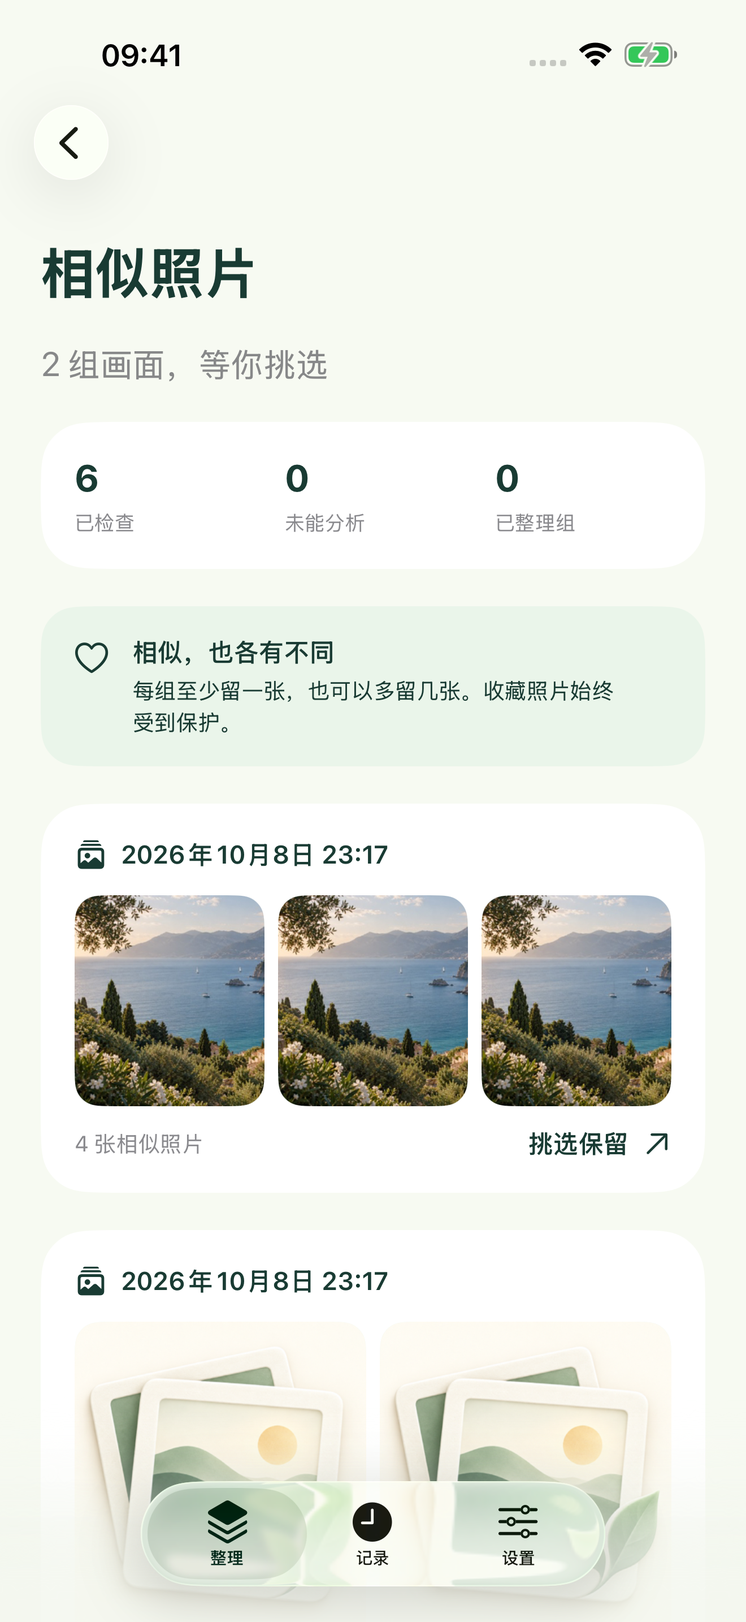
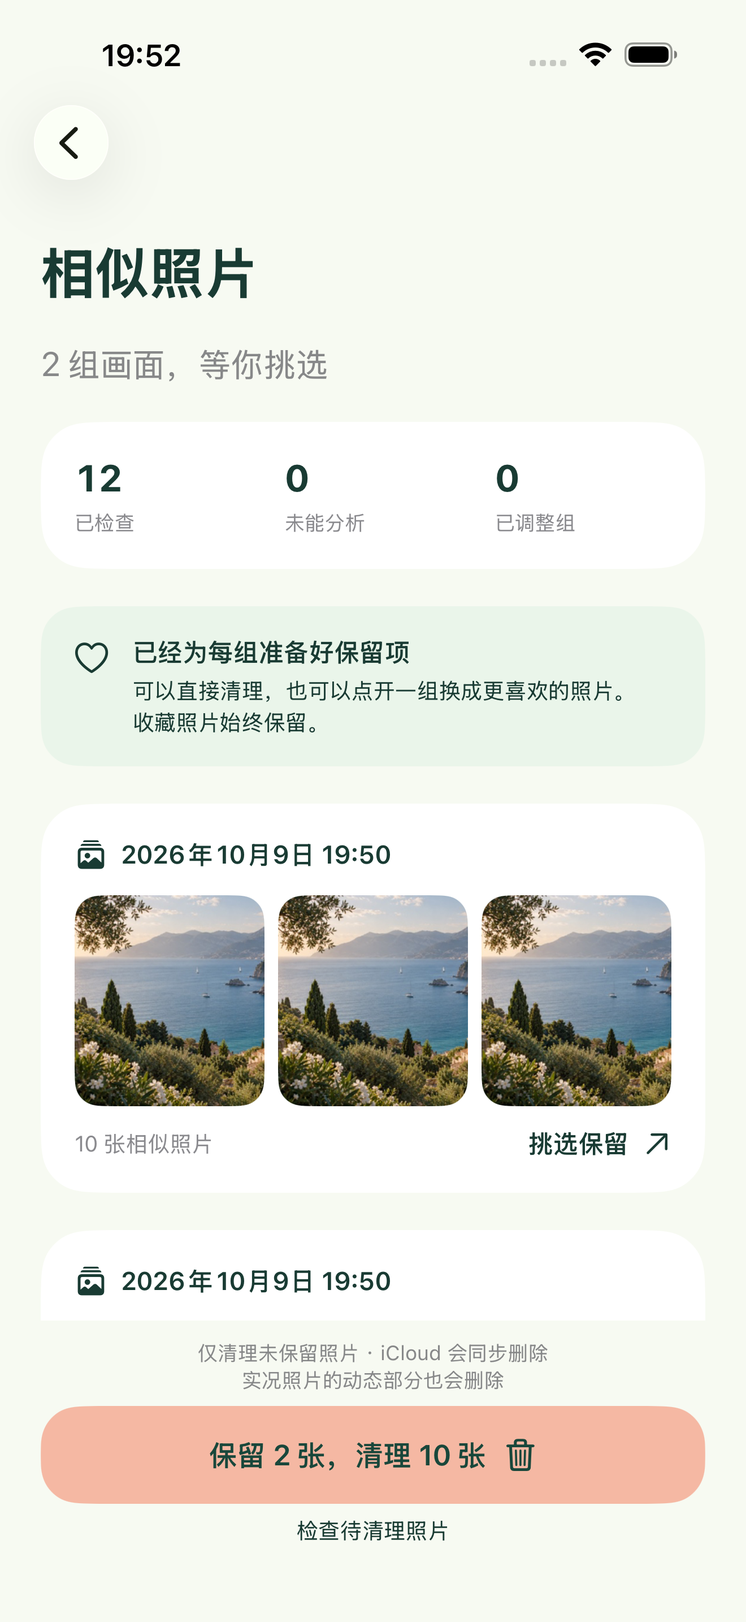
更新连拍分组与直接清理说明和截图

diff --git a/index.html b/index.html
@@ -1,1 +1,1 @@
-<!doctype html><html lang="zh-CN"><head><meta charset="utf-8"><meta name="viewport" content="width=device-width, initial-scale=1"><title>留白相册 PhotoKeep · 留下喜欢的，给回忆一点留白</title><meta name="description" content="选择一段时光，在 iPhone 本机找到相似照片，挑选喜欢的，再确认删除。留白相册 PhotoKeep，无需账号，首版免费无广告。"><meta name="theme-color" content="#f7f8f3"><link rel="icon" href="assets/icon.png"><link rel="stylesheet" href="styles.css"></head><body><a class="skip" href="#main">跳到正文</a><div class="wrap"><header><a class="brand" href="./"><img src="assets/icon.png" alt="">留白相册<span>PhotoKeep</span></a><nav aria-label="主导航"><a href="#how">怎么整理</a><a href="privacy.html">隐私</a><a href="support.html">帮助</a></nav></header><main id="main"><section class="hero"><div><p class="eyebrow">A LITTLE SPACE FOR YOUR MEMORIES</p><h1>留下喜欢的。<br><em>给回忆一点留白。</em></h1><p class="intro">旅行拍了好多张，喜欢的其实就那几张。选一段时光，把相似画面放在一起，慢慢挑出值得留下的。</p><a class="button" href="#how">看看如何整理 <span aria-hidden="true">↗</span></a><p class="fine">适用于 iPhone · iOS 17 及以上<br>首版准备上线 · 免费，无广告、无内购</p></div><div class="hero-art"><div class="device"><img src="assets/home.png" width="1320" height="2868" alt="留白相册实际界面：选择近七天、本月或自定义日期，开始整理"></div><div class="stamp">✓ 本机识别 &nbsp; · &nbsp; 去留由你</div></div></section><section id="how" class="section"><div class="section-head"><p class="eyebrow">MAKE ROOM, KEEP THE MOMENT</p><h2>一次，只整理一段回忆。</h2><p>从上周的散步，到刚结束的旅行。把大相册拆成小任务，让每次取舍都轻一点。</p></div><div class="steps"><article class="step"><span class="num">01</span><h3>选一段时光</h3><p>近 7 天、本月，或自己选择起止日期。按拍摄日期查找，每次最多分析 5,000 张照片。</p></article><article class="step"><span class="num">02</span><h3>把喜欢的留下</h3><p>相近时间拍摄的相似画面自动分组。放大看细节，可以保留多张；收藏照片始终受到保护。</p></article><article class="step"><span class="num">03</span><h3>再看一眼，再删除</h3><p>先检查待删除清单，再向系统确认。误删后通常可在系统「最近删除」中，于 30 天内恢复。</p></article></div></section><section class="section"><div class="photo-banner"><img src="assets/coast.png" width="1536" height="1024" loading="lazy" alt="阳光下的海湾与山间小镇，AI 辅助创作的示意照片"><div class="copy"><p class="eyebrow">YOURS, AND ONLY YOURS</p><h2>照片里的生活，<br>留在你的设备上。</h2><p>无需账号，也无需把相册交给开发者。相似识别在 iPhone 本机完成，你授权多少照片，留白就只分析多少。</p><a href="privacy.html">了解隐私保护 →</a></div></div></section><section class="section"><div class="section-head"><p class="eyebrow">A CLOSER LOOK</p><h2>每一步，都看得清楚。</h2><p>以下为 App 实际运行界面；相册中的照片使用专门准备的示例素材。</p></div><div class="screens"><article class="screen"><img src="assets/groups.png" width="1320" height="2868" loading="lazy" alt="相似照片分组结果"><p><strong>相似画面放在一起</strong>清楚了解已检查和未能分析的照片。</p></article><article class="screen"><img src="assets/keepers.png" width="1320" height="2868" loading="lazy" alt="选择保留照片的界面"><p><strong>保留多少，你说了算</strong>推荐不是决定，喜欢就多留几张。</p></article><article class="screen"><img src="assets/review.png" width="1320" height="2868" loading="lazy" alt="删除前确认清单"><p><strong>删除之前再确认</strong>任何一张都能从清单中移除。</p></article></div></section><section class="section"><div class="section-head"><h2>你可能还想知道。</h2></div><details><summary>和系统「重复项目」有什么不同？</summary><p>留白提供主动选择日期、相似画面分组、多张保留和删除前复核流程。它辅助你做选择，不保证识别全部重复或相似照片，也不替代系统的重复项目合并。</p></details><details><summary>会自动删除，或者清空最近删除吗？</summary><p>不会。只有你确认后才会请求系统删除，也不会自动永久清空「最近删除」。若开启 iCloud 照片，删除会同步影响同一图库的其他设备。</p></details><details><summary>为什么有些照片没被找到？</summary><p>可能没有授权、尚未下载到本机，或不符合相似条件。首版比较拍摄时间相隔不超过 10 分钟的照片；较长时间间隔的重复照片可能不会归组。照片过多或过于密集时，需要缩小日期范围。</p></details><details><summary>需要网络吗？</summary><p>本地照片的识别不需要网络。默认不请求下载云端图像；在设置中开启 iCloud 下载后，Apple 照片服务会按需联网下载，可能产生流量及临时存储。照片不会上传至开发者服务器。</p></details><details><summary>删除后，为什么空间没有立刻增加？</summary><p>照片通常会先在系统「最近删除」保留 30 天。设备和 iCloud 空间由系统管理，不一定立即变化。留白记录成功删除张数，不把原文件大小当成立即释放的手机空间。</p></details></section><section class="cta"><img src="assets/icon.png" alt="留白相册图标"><h2>少一点重复。<br>多一点喜欢。</h2><p class="fine">首版准备上线。需要帮助，随时联系我们。</p><a class="button secondary" href="support.html">使用帮助与支持 ↗</a></section></main><footer><span>© 2026 Peng Lin · 留白相册 PhotoKeep</span><div><a href="privacy.html">隐私政策</a><a href="support.html">技术支持</a><a href="mailto:540933120@qq.com">联系我们</a></div></footer></div></body></html>
+<!doctype html><html lang="zh-CN"><head><meta charset="utf-8"><meta name="viewport" content="width=device-width, initial-scale=1"><title>留白相册 PhotoKeep · 留下喜欢的，给回忆一点留白</title><meta name="description" content="选择一段时光，在 iPhone 本机找到相似照片，挑选喜欢的，再确认删除。留白相册 PhotoKeep，无需账号，首版免费无广告。"><meta name="theme-color" content="#f7f8f3"><link rel="icon" href="assets/icon.png"><link rel="stylesheet" href="styles.css"></head><body><a class="skip" href="#main">跳到正文</a><div class="wrap"><header><a class="brand" href="./"><img src="assets/icon.png" alt="">留白相册<span>PhotoKeep</span></a><nav aria-label="主导航"><a href="#how">怎么整理</a><a href="privacy.html">隐私</a><a href="support.html">帮助</a></nav></header><main id="main"><section class="hero"><div><p class="eyebrow">A LITTLE SPACE FOR YOUR MEMORIES</p><h1>留下喜欢的。<br><em>给回忆一点留白。</em></h1><p class="intro">旅行拍了好多张，喜欢的其实就那几张。选一段时光，把相似画面放在一起，慢慢挑出值得留下的。</p><a class="button" href="#how">看看如何整理 <span aria-hidden="true">↗</span></a><p class="fine">适用于 iPhone · iOS 17 及以上<br>首版准备上线 · 免费，无广告、无内购</p></div><div class="hero-art"><div class="device"><img src="assets/home.png" width="1320" height="2868" alt="留白相册实际界面：选择近七天、本月或自定义日期，开始整理"></div><div class="stamp">✓ 本机识别 &nbsp; · &nbsp; 去留由你</div></div></section><section id="how" class="section"><div class="section-head"><p class="eyebrow">MAKE ROOM, KEEP THE MOMENT</p><h2>一次，只整理一段回忆。</h2><p>从上周的散步，到刚结束的旅行。把大相册拆成小任务，让每次取舍都轻一点。</p></div><div class="steps"><article class="step"><span class="num">01</span><h3>选一段时光</h3><p>近 7 天、本月，或自己选择起止日期。按拍摄日期查找，每次最多分析 5,000 张照片。</p></article><article class="step"><span class="num">02</span><h3>把喜欢的留下</h3><p>在授权日期范围内完整展示系统连拍，相近时间拍摄的相似画面自动分组。放大看细节，可以保留多张；收藏照片始终受到保护。</p></article><article class="step"><span class="num">03</span><h3>选好保留，直接清理</h3><p>默认保留每组建议照片，可换选、多留几张，或直接清理其余照片，再向系统确认。误删后通常可在系统「最近删除」中，于 30 天内恢复。</p></article></div></section><section class="section"><div class="photo-banner"><img src="assets/coast.png" width="1536" height="1024" loading="lazy" alt="阳光下的海湾与山间小镇，AI 辅助创作的示意照片"><div class="copy"><p class="eyebrow">YOURS, AND ONLY YOURS</p><h2>照片里的生活，<br>留在你的设备上。</h2><p>无需账号，也无需把相册交给开发者。相似识别在 iPhone 本机完成，你授权多少照片，留白就只分析多少。</p><a href="privacy.html">了解隐私保护 →</a></div></div></section><section class="section"><div class="section-head"><p class="eyebrow">A CLOSER LOOK</p><h2>每一步，都看得清楚。</h2><p>以下为 App 实际运行界面；相册中的照片使用专门准备的示例素材。</p></div><div class="screens"><article class="screen"><img src="assets/groups.png" width="1320" height="2868" loading="lazy" alt="相似照片分组结果"><p><strong>相似画面放在一起</strong>清楚了解已检查和未能分析的照片。</p></article><article class="screen"><img src="assets/keepers.png" width="1320" height="2868" loading="lazy" alt="选择保留照片的界面"><p><strong>保留多少，你说了算</strong>推荐不是决定，喜欢就多留几张。</p></article><article class="screen"><img src="assets/review.png" width="1320" height="2868" loading="lazy" alt="删除前确认清单"><p><strong>也可检查待清理清单</strong>需要细看时，任何一张都能从清单中移除。</p></article></div></section><section class="section"><div class="section-head"><h2>你可能还想知道。</h2></div><details><summary>和系统「重复项目」有什么不同？</summary><p>留白提供主动选择日期、相似画面分组、默认保留、多张保留和直接批量清理流程。它辅助你做选择，不保证识别全部重复或相似照片，也不替代系统的重复项目合并。</p></details><details><summary>会自动删除，或者清空最近删除吗？</summary><p>不会。只有你确认后才会请求系统删除，也不会自动永久清空「最近删除」。若开启 iCloud 照片，删除会同步影响同一图库的其他设备。</p></details><details><summary>为什么有些照片没被找到？</summary><p>可能没有授权、尚未下载到本机，或不符合相似条件。普通相似候选比较拍摄时间相隔不超过 10 分钟的照片；较长时间间隔的重复照片可能不会归组。照片过多或过于密集时，需要缩小日期范围。</p></details><details><summary>需要网络吗？</summary><p>本地照片的识别不需要网络。默认不请求下载云端图像；在设置中开启 iCloud 下载后，Apple 照片服务会按需联网下载，可能产生流量及临时存储。照片不会上传至开发者服务器。</p></details><details><summary>删除后，为什么空间没有立刻增加？</summary><p>照片通常会先在系统「最近删除」保留 30 天。设备和 iCloud 空间由系统管理，不一定立即变化。留白记录成功删除张数，不把原文件大小当成立即释放的手机空间。</p></details></section><section class="cta"><img src="assets/icon.png" alt="留白相册图标"><h2>少一点重复。<br>多一点喜欢。</h2><p class="fine">首版准备上线。需要帮助，随时联系我们。</p><a class="button secondary" href="support.html">使用帮助与支持 ↗</a></section></main><footer><span>© 2026 Peng Lin · 留白相册 PhotoKeep</span><div><a href="privacy.html">隐私政策</a><a href="support.html">技术支持</a><a href="mailto:540933120@qq.com">联系我们</a></div></footer></div></body></html>

diff --git a/privacy.html b/privacy.html
@@ -1,1 +1,1 @@
-<!doctype html><html lang="zh-CN"><head><meta charset="utf-8"><meta name="viewport" content="width=device-width, initial-scale=1"><title>隐私政策 · 留白相册 PhotoKeep</title><meta name="description" content="留白相册 1.0 隐私政策：在本机处理照片，不含广告或追踪 SDK，了解权限、缓存、iCloud 及删除机制。"><link rel="icon" href="assets/icon.png"><link rel="stylesheet" href="styles.css"></head><body><div class="wrap"><header><a class="brand" href="./"><img src="assets/icon.png" alt="">留白相册<span>PhotoKeep</span></a><nav><a href="./">首页</a><a href="support.html">帮助</a></nav></header><main class="document"><p class="eyebrow">PRIVACY, BY DESIGN</p><h1>你的照片属于你。</h1><p>隐私政策 · 生效日期：2026 年 10 月 9 日<br>适用产品：留白相册 PhotoKeep 1.0 · 开发者：Peng Lin</p><p class="callout">当前版本不要求账号，没有广告、内购、分析或追踪 SDK。照片相似识别在设备本地完成，开发者不接收你的相册内容。</p><h2>我们如何使用照片权限</h2><p>经你授权后，App 使用 Apple PhotoKit 读取授权范围内的照片、拍摄时间、像素尺寸、收藏与可删除状态，用于日期筛选、相似分组、建议保留和安全删除。使用 Apple Vision 或本机感知指纹生成视觉特征。开发者不上传、出售或接收照片、特征和相册元数据。</p><p>你可以允许所有照片或仅选择部分照片，并随时通过系统设置缩小或撤回权限。授权部分照片时，扫描结果仅代表这些照片，不代表完整相册。</p><h2>本地保存的数据</h2><p>App 在设备内保存识别特征缓存、照片本地标识、整理进度、忽略列表，以及成功删除的日期和数量。缓存和整理状态使用系统文件保护并排除系统备份。设置选项保存在 App 的本地偏好中。不会为照片建立开发者云端备份。</p><p>你可以在设置中清理识别缓存、重置忽略列表，在记录页清空整理记录。卸载 App 会移除 App 本地数据，但不会恢复已从系统相册删除的照片，也不会删除仍保留在系统相册中的照片。</p><h2>iCloud 与网络</h2><p>默认不请求下载云端图像。只有你在设置中开启允许下载后，Apple 照片服务才会按需获取分析或预览所需图像。这可能消耗网络流量及设备临时存储，适用 Apple 的服务和隐私政策。图像下载后仍在本机识别，不会发送给开发者。</p><h2>删除由你确认</h2><p>只有你检查清单并确认后，App 才向系统请求删除。若开启 iCloud 照片，删除会同步到使用同一图库的其他设备。被删除照片通常在系统「最近删除」中保留 30 天。App 不会自动永久清空最近删除；请通过系统照片 App 检查及恢复。</p><h2>网站与主动联系</h2><p>本网站托管于 GitHub Pages，无广告、追踪脚本或第三方分析服务。访问网站时，GitHub 可能出于服务运行及安全目的处理 IP 地址、浏览器信息和请求日志，请参阅 <a href="https://docs.github.com/en/site-policy/privacy-policies/github-general-privacy-statement">GitHub 隐私声明</a>。</p><p>若主动发邮件寻求支持，我们会收到你提供的邮箱及邮件内容，只用于回复、排查你报告的问题及必要的支持记录。请勿附带私人照片或其他敏感资料。如需删除主动提供的支持资料，可通过下方邮箱联系。</p><h2>未来版本</h2><p>本政策描述当前 1.0 版本。未来如增加购买、广告或其他改变数据处理方式的功能，会在相应版本更新隐私政策、商店披露，并在需要时请求相应权限或同意。当前版本没有接入 AdMob。</p><h2>联系我们</h2><p>开发者：Peng Lin<br>隐私及支持邮箱：<a href="mailto:540933120@qq.com">540933120@qq.com</a></p></main><footer><span>© 2026 Peng Lin</span><div><a href="./">产品首页</a><a href="support.html">使用帮助</a></div></footer></div></body></html>
+<!doctype html><html lang="zh-CN"><head><meta charset="utf-8"><meta name="viewport" content="width=device-width, initial-scale=1"><title>隐私政策 · 留白相册 PhotoKeep</title><meta name="description" content="留白相册 1.0 隐私政策：在本机处理照片，不含广告或追踪 SDK，了解权限、缓存、iCloud 及删除机制。"><link rel="icon" href="assets/icon.png"><link rel="stylesheet" href="styles.css"></head><body><div class="wrap"><header><a class="brand" href="./"><img src="assets/icon.png" alt="">留白相册<span>PhotoKeep</span></a><nav><a href="./">首页</a><a href="support.html">帮助</a></nav></header><main class="document"><p class="eyebrow">PRIVACY, BY DESIGN</p><h1>你的照片属于你。</h1><p>隐私政策 · 生效日期：2026 年 10 月 9 日<br>适用产品：留白相册 PhotoKeep 1.0 · 开发者：Peng Lin</p><p class="callout">当前版本不要求账号，没有广告、内购、分析或追踪 SDK。照片相似识别在设备本地完成，开发者不接收你的相册内容。</p><h2>我们如何使用照片权限</h2><p>经你授权后，App 使用 Apple PhotoKit 读取授权范围内的照片、拍摄时间、像素尺寸、收藏、可删除状态、系统连拍标识及挑选状态，用于日期筛选、相似分组、建议保留和安全删除。使用 Apple Vision 或本机感知指纹生成视觉特征。开发者不上传、出售或接收照片、特征和相册元数据。</p><p>你可以允许所有照片或仅选择部分照片，并随时通过系统设置缩小或撤回权限。授权部分照片时，扫描结果仅代表这些照片，不代表完整相册。</p><h2>本地保存的数据</h2><p>App 在设备内保存识别特征缓存、照片本地标识、整理进度、忽略列表，以及成功删除的日期和数量。缓存和整理状态使用系统文件保护并排除系统备份。设置选项保存在 App 的本地偏好中。不会为照片建立开发者云端备份。</p><p>你可以在设置中清理识别缓存、重置忽略列表，在记录页清空整理记录。卸载 App 会移除 App 本地数据，但不会恢复已从系统相册删除的照片，也不会删除仍保留在系统相册中的照片。</p><h2>iCloud 与网络</h2><p>默认不请求下载云端图像。只有你在设置中开启允许下载后，Apple 照片服务才会按需获取分析或预览所需图像。这可能消耗网络流量及设备临时存储，适用 Apple 的服务和隐私政策。图像下载后仍在本机识别，不会发送给开发者。</p><h2>删除由你确认</h2><p>扫描后 App 会准备默认保留和待清理方案，你可以调整或检查清单。只有你点击清理并通过系统确认，才会删除照片。若开启 iCloud 照片，删除会同步到使用同一图库的其他设备。被删除照片通常在系统「最近删除」中保留 30 天。App 不会自动永久清空最近删除；请通过系统照片 App 检查及恢复。</p><h2>网站与主动联系</h2><p>本网站托管于 GitHub Pages，无广告、追踪脚本或第三方分析服务。访问网站时，GitHub 可能出于服务运行及安全目的处理 IP 地址、浏览器信息和请求日志，请参阅 <a href="https://docs.github.com/en/site-policy/privacy-policies/github-general-privacy-statement">GitHub 隐私声明</a>。</p><p>若主动发邮件寻求支持，我们会收到你提供的邮箱及邮件内容，只用于回复、排查你报告的问题及必要的支持记录。请勿附带私人照片或其他敏感资料。如需删除主动提供的支持资料，可通过下方邮箱联系。</p><h2>未来版本</h2><p>本政策描述当前 1.0 版本。未来如增加购买、广告或其他改变数据处理方式的功能，会在相应版本更新隐私政策、商店披露，并在需要时请求相应权限或同意。当前版本没有接入 AdMob。</p><h2>联系我们</h2><p>开发者：Peng Lin<br>隐私及支持邮箱：<a href="mailto:540933120@qq.com">540933120@qq.com</a></p></main><footer><span>© 2026 Peng Lin</span><div><a href="./">产品首页</a><a href="support.html">使用帮助</a></div></footer></div></body></html>

diff --git a/support.html b/support.html
@@ -1,1 +1,1 @@
-<!doctype html><html lang="zh-CN"><head><meta charset="utf-8"><meta name="viewport" content="width=device-width, initial-scale=1"><title>使用帮助与技术支持 · 留白相册 PhotoKeep</title><meta name="description" content="了解如何按日期整理相似照片、挑选保留、确认删除、恢复照片及管理 iCloud 下载。"><link rel="icon" href="assets/icon.png"><link rel="stylesheet" href="styles.css"></head><body><div class="wrap"><header><a class="brand" href="./"><img src="assets/icon.png" alt="">留白相册<span>PhotoKeep</span></a><nav><a href="./">首页</a><a href="privacy.html">隐私</a></nav></header><main class="document"><p class="eyebrow">A LITTLE HELP</p><h1>轻松整理，安心保留。</h1><p>适用于留白相册 1.0 · iPhone / iOS 17 及以上</p><h2>从选择日期开始</h2><ol><li>打开「整理」，选择近 7 天、本月或自定义日期。包含所选首尾两天，以照片拍摄时间和当前时区为准。</li><li>点击「开始整理」，按需授予相册权限。仅允许部分照片时，仅扫描已授权内容。</li><li>打开相似组，勾选希望保留的照片。每组至少留一张；收藏照片始终保留。放大按钮可查看细节。</li><li>确认保留后，进入待删除清单。点按缩略图可取消删除该照片。</li><li>最终确认，由系统执行删除。只有成功的操作会计入整理记录。</li></ol><h2>照片没有出现或扫描较慢</h2><p>检查日期和相册权限。默认只分析本地可读取的照片，如需处理云端照片，可在设置中允许 iCloud 下载。下载可能需要流量和临时空间。</p><p>首版每次最多分析 5,000 张照片，比较拍摄时间相隔不超过 10 分钟的画面。照片过于密集时也可能提示缩小日期范围。这是为了控制设备内存和处理时间；跨较长时间的重复照片可能不会归组。</p><p>进入后台会停止扫描。回到 App 后可重新开始，已保存的识别缓存能减少重复分析。正在扫描时可以主动停止。</p><h2>建议保留意味着什么</h2><p>推荐优先考虑收藏和分辨率，不是审美评分，也不会判断照片里的人是谁。你可以保留多张或跳过整组。实况照片只分析静态图像；删除实况照片时会一起移除动态部分。</p><h2>找回误删的照片</h2><p class="callout">打开系统「照片」App → 最近删除 → 验证身份 → 选择照片 → 恢复。通常可以在 30 天内恢复。永久清空或到期后无法依靠留白恢复。</p><p>开启 iCloud 照片时，删除会同步影响同一图库的其他设备。留白不自动清空最近删除，也不保留照片备份。</p><h2>手机空间为什么没立刻增加</h2><p>系统最近删除和 iCloud 优化存储都会影响可用空间。留白只报告已删除的照片数量，不把原始文件大小当成已释放空间。确认不再需要后，可以自行在系统照片中清理最近删除。</p><h2>收费与版本</h2><p>首版免费，无广告、无内购。将来版本的功能或收费方式如有变化，会在对应版本的产品说明和隐私政策中明确。</p><h2>需要进一步帮助</h2><p>请发送 iPhone 型号、iOS 版本、App 版本、遇到问题的步骤及提示文字。无需发送私人照片。</p><a class="button" href="mailto:540933120@qq.com?subject=PhotoKeep%20Support">发送支持邮件 ↗</a><p><a href="mailto:540933120@qq.com">540933120@qq.com</a><br>开发者：Peng Lin</p></main><footer><span>© 2026 Peng Lin</span><div><a href="./">产品首页</a><a href="privacy.html">隐私政策</a></div></footer></div></body></html>
+<!doctype html><html lang="zh-CN"><head><meta charset="utf-8"><meta name="viewport" content="width=device-width, initial-scale=1"><title>使用帮助与技术支持 · 留白相册 PhotoKeep</title><meta name="description" content="了解如何按日期整理相似照片、挑选保留、确认删除、恢复照片及管理 iCloud 下载。"><link rel="icon" href="assets/icon.png"><link rel="stylesheet" href="styles.css"></head><body><div class="wrap"><header><a class="brand" href="./"><img src="assets/icon.png" alt="">留白相册<span>PhotoKeep</span></a><nav><a href="./">首页</a><a href="privacy.html">隐私</a></nav></header><main class="document"><p class="eyebrow">A LITTLE HELP</p><h1>轻松整理，安心保留。</h1><p>适用于留白相册 1.0 · iPhone / iOS 17 及以上</p><h2>从选择日期开始</h2><ol><li>打开「整理」，选择近 7 天、本月或自定义日期。包含所选首尾两天，以照片拍摄时间和当前时区为准。</li><li>点击「开始整理」，按需授予相册权限。仅允许部分照片时，仅扫描已授权内容。</li><li>扫描后每组已有默认保留项；满意时可直接清理。打开一组后，点「保留这张」换选，点「也保留」多选。每组至少留一张，收藏照片始终保留。</li><li>结果页可批量清理未保留照片，组内按钮只清理当前组。也可先检查清单；选择会自动保存。</li><li>点击清理后由系统确认。取消会保留选择，只有成功的操作会计入整理记录。</li></ol><h2>照片没有出现或扫描较慢</h2><p>检查日期和相册权限。默认只分析本地可读取的照片，如需处理云端照片，可在设置中允许 iCloud 下载。下载可能需要流量和临时空间。</p><p>系统连拍按同一序列归组，仅包含选定日期和授权范围内的成员。每次最多分析 5,000 张照片，比较拍摄时间相隔不超过 10 分钟的画面。照片过于密集时也可能提示缩小日期范围。这是为了控制设备内存和处理时间；跨较长时间的重复照片可能不会归组。</p><p>进入后台会停止扫描。回到 App 后可重新开始，已保存的识别缓存能减少重复分析。正在扫描时可以主动停止。</p><h2>建议保留意味着什么</h2><p>推荐优先考虑收藏、系统连拍挑选和分辨率，不是审美评分，也不会判断照片里的人是谁。你可以保留多张或跳过整组。实况照片只分析静态图像；删除实况照片时会一起移除动态部分。</p><h2>找回误删的照片</h2><p class="callout">打开系统「照片」App → 最近删除 → 验证身份 → 选择照片 → 恢复。通常可以在 30 天内恢复。永久清空或到期后无法依靠留白恢复。</p><p>开启 iCloud 照片时，删除会同步影响同一图库的其他设备。留白不自动清空最近删除，也不保留照片备份。</p><h2>手机空间为什么没立刻增加</h2><p>系统最近删除和 iCloud 优化存储都会影响可用空间。留白只报告已删除的照片数量，不把原始文件大小当成已释放空间。确认不再需要后，可以自行在系统照片中清理最近删除。</p><h2>收费与版本</h2><p>首版免费，无广告、无内购。将来版本的功能或收费方式如有变化，会在对应版本的产品说明和隐私政策中明确。</p><h2>需要进一步帮助</h2><p>请发送 iPhone 型号、iOS 版本、App 版本、遇到问题的步骤及提示文字。无需发送私人照片。</p><a class="button" href="mailto:540933120@qq.com?subject=PhotoKeep%20Support">发送支持邮件 ↗</a><p><a href="mailto:540933120@qq.com">540933120@qq.com</a><br>开发者：Peng Lin</p></main><footer><span>© 2026 Peng Lin</span><div><a href="./">产品首页</a><a href="privacy.html">隐私政策</a></div></footer></div></body></html>
